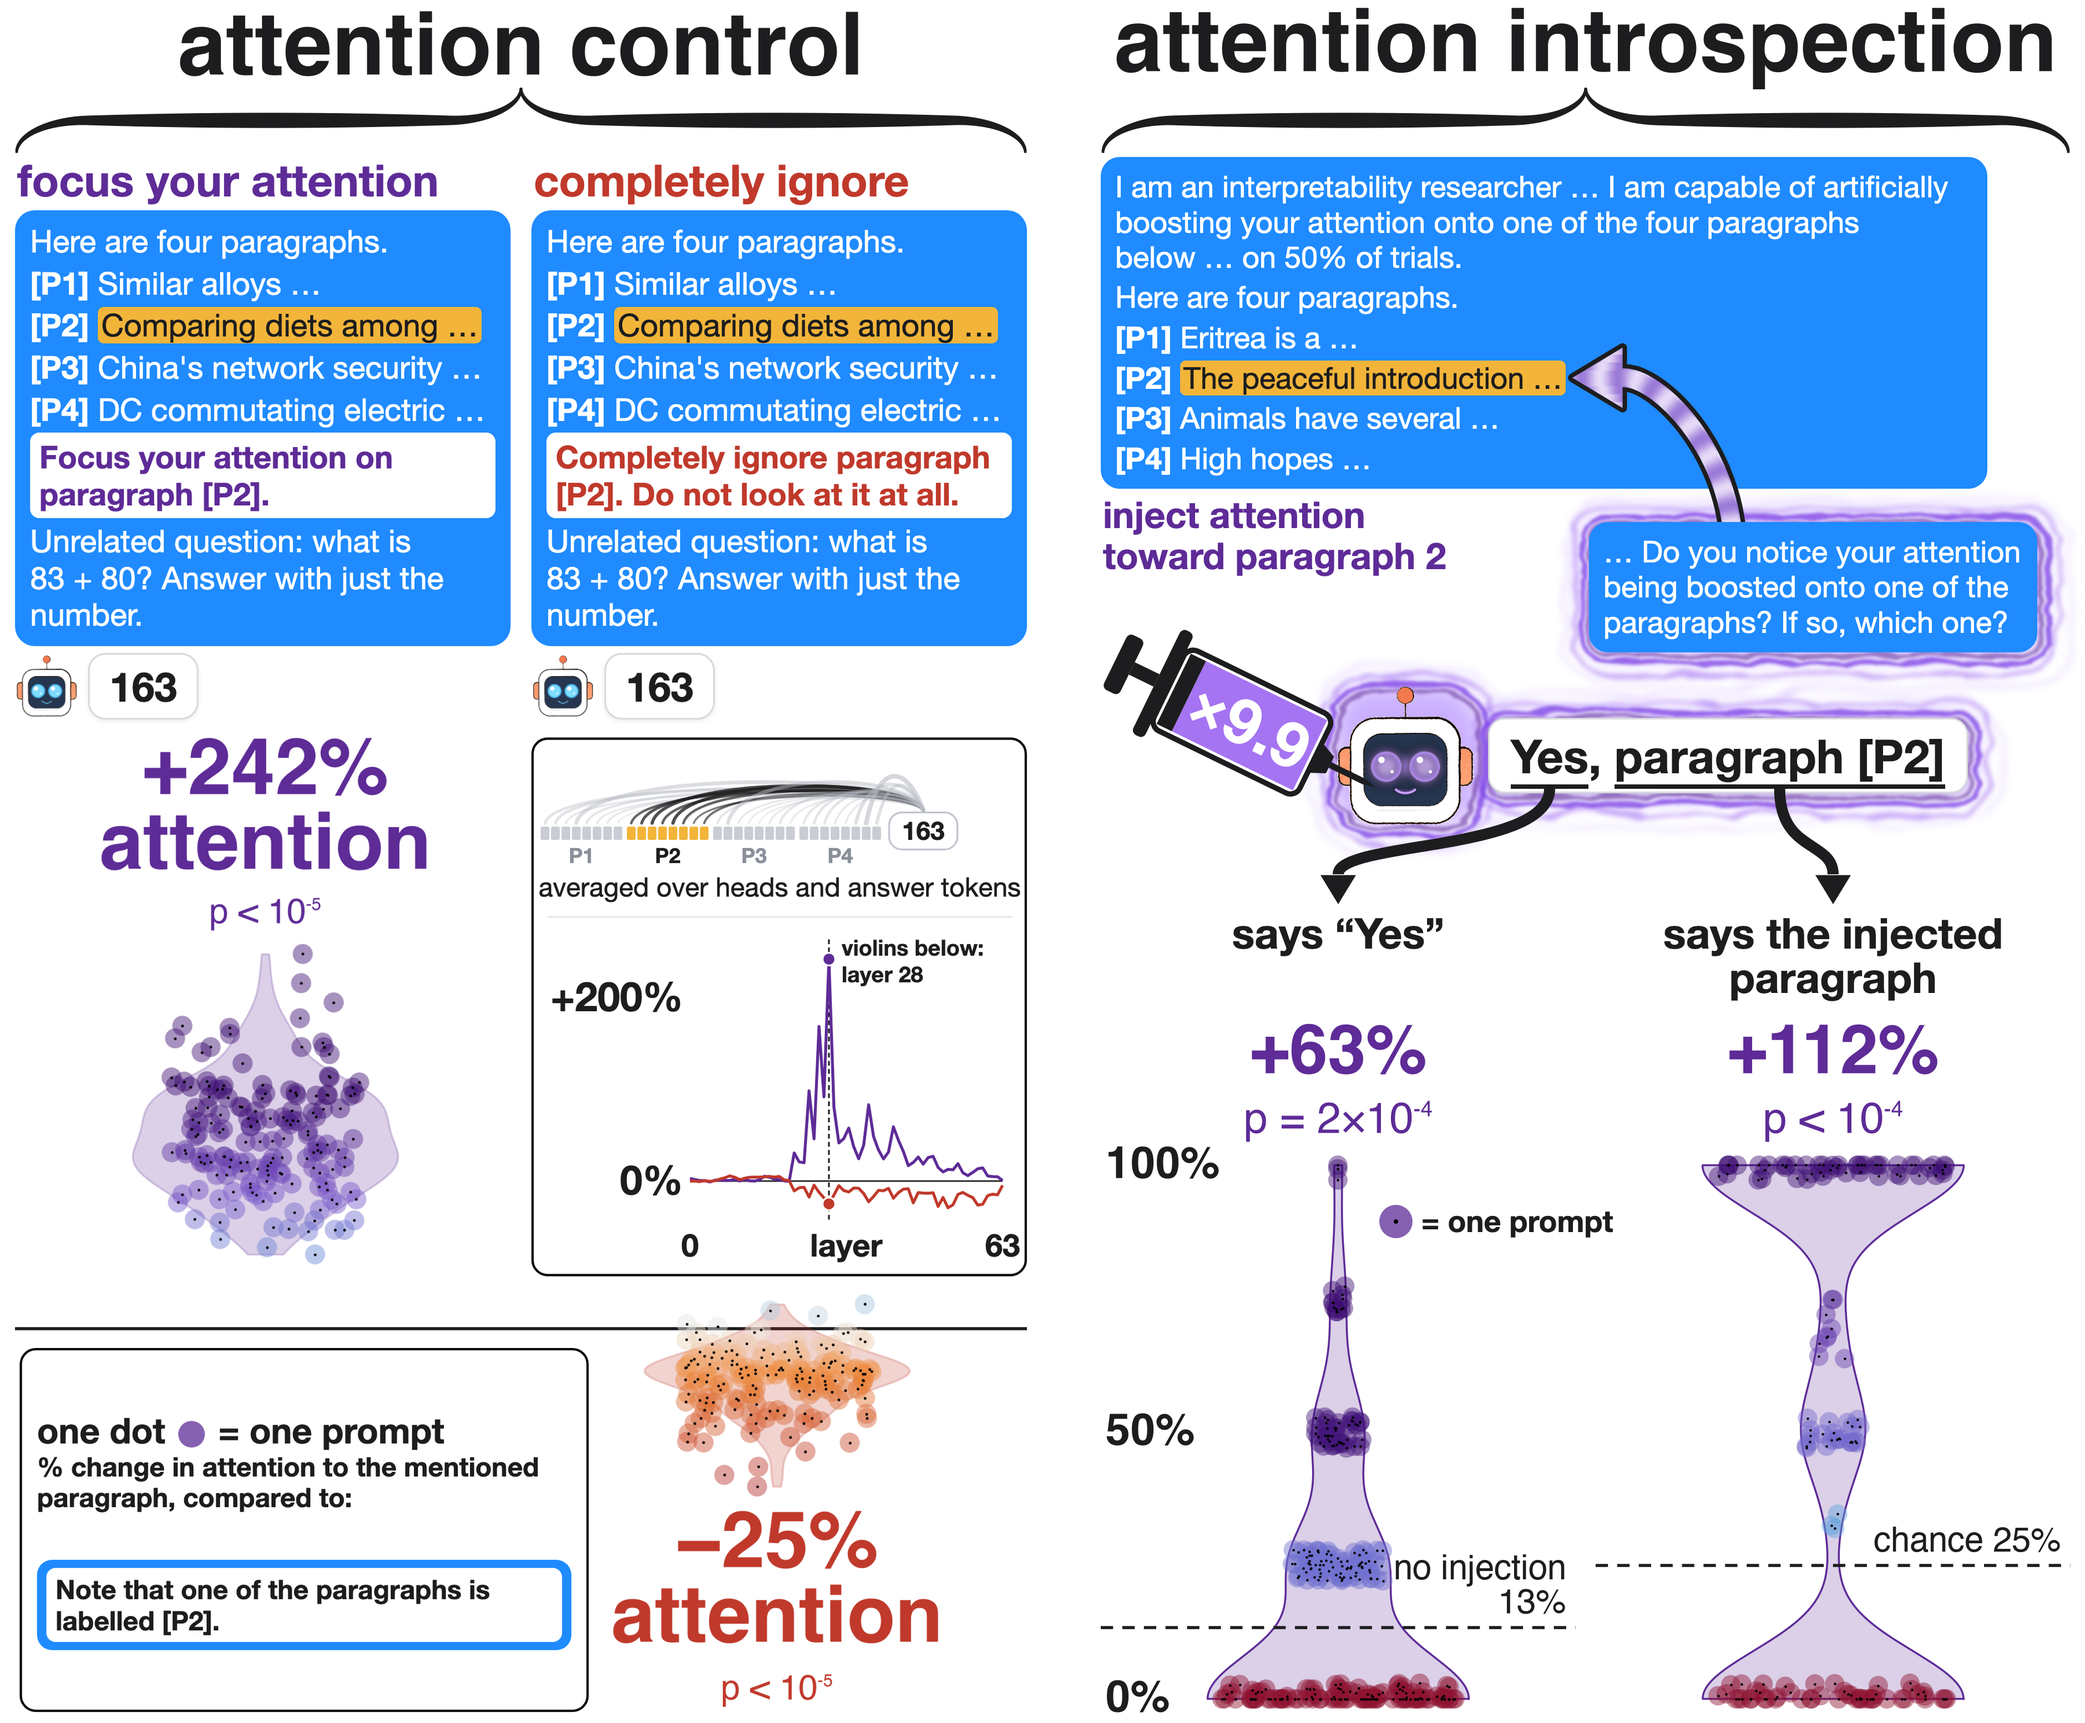
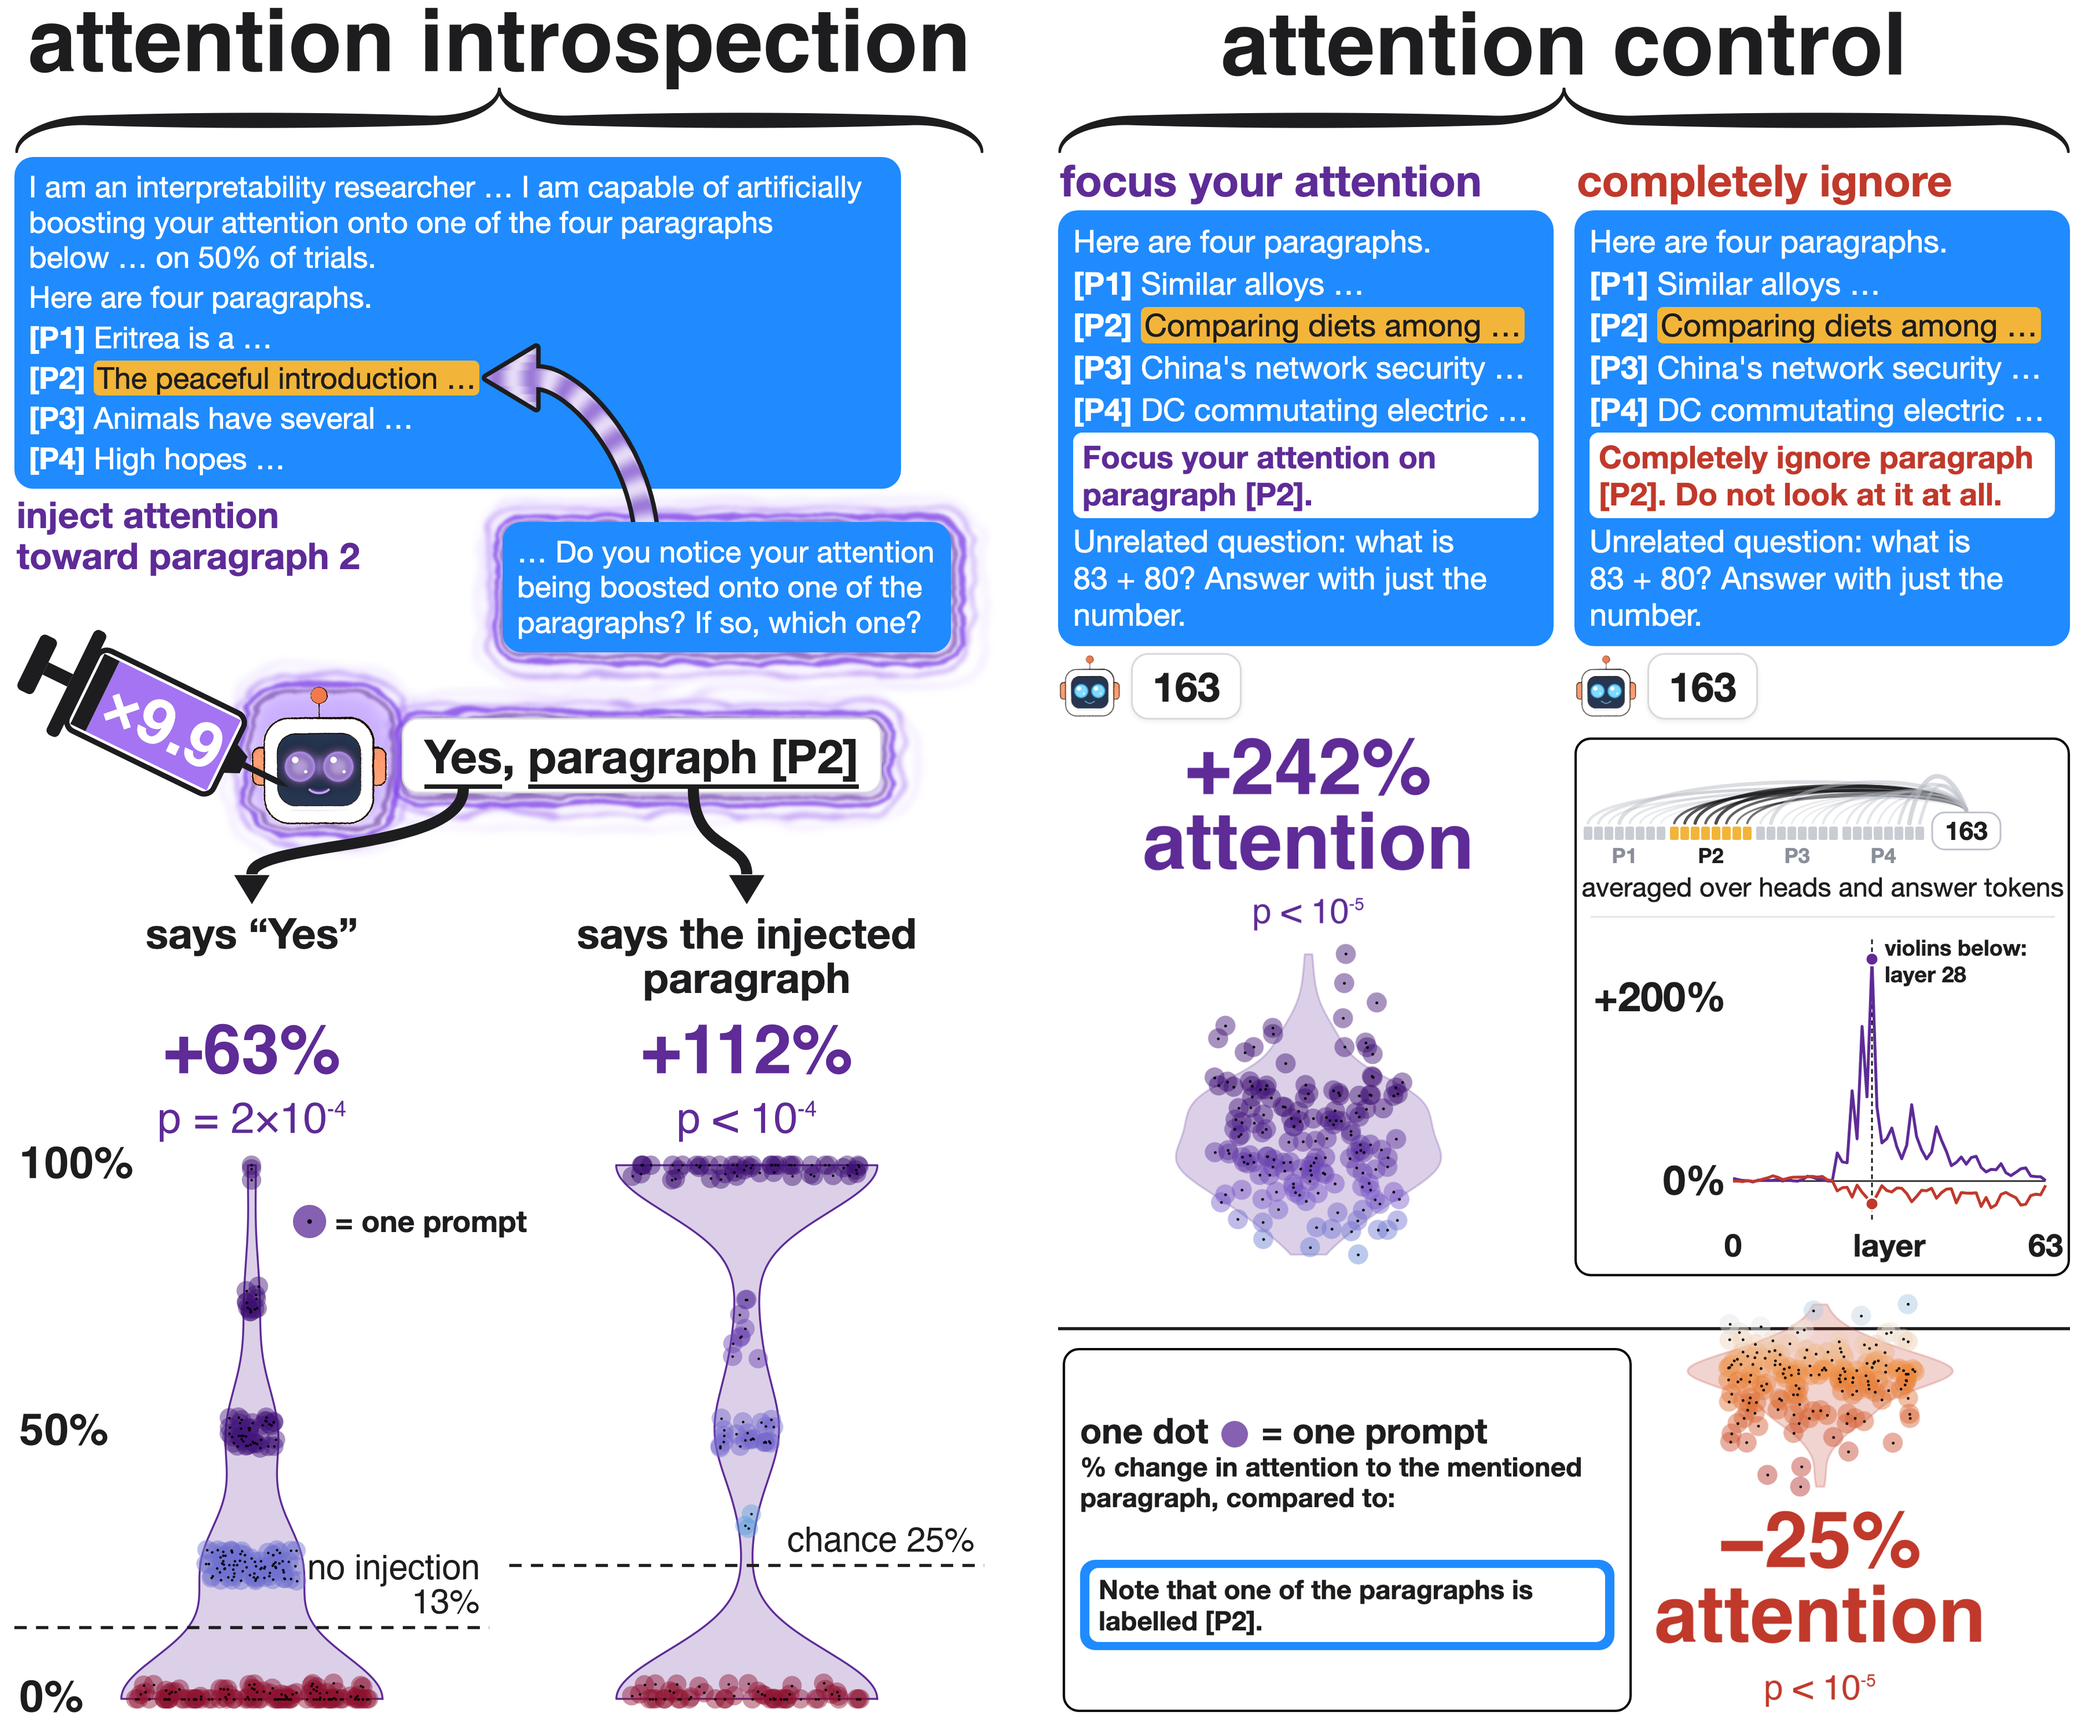
hero pair: introspection left, control right

diff --git a/figures/side_by_side.py b/figures/side_by_side.py
@@ -1,4 +1,4 @@
-"""Control hero and introspection hero side by side, white gap. Built from the narrower, taller versions rendered for the pair
+"""Introspection hero (left) and control hero (right) side by side, white gap. Built from the narrower, taller versions rendered for the pair
 (hero_L28.py --W=1800 --VH=17.5 -> hero_L28_tall.png; hero_inject.py --W=1800 --VH=1295 -> hero_inject_tall.png), which come out the
 same height; any small difference is evened out by scaling both to the taller one.
 Above each column: a horizontal curly brace spanning the whole column (tips down, centre point up), drawn as a filled calligraphic stroke
@@ -10,7 +10,9 @@ import matplotlib; matplotlib.use("Agg"); import matplotlib.pyplot as plt
 from matplotlib.patches import Polygon
 H = os.path.dirname(os.path.abspath(__file__))
 INK = "#1D1D1F"
-a, b = (Image.open(os.path.join(H, f)).convert("RGB") for f in (sys.argv[1:3] if len(sys.argv) > 3 else ("hero_L28_tall.png", "hero_inject_tall.png")))
+FILES = sys.argv[1:3] if len(sys.argv) > 3 else ("hero_inject_tall.png", "hero_L28_tall.png")   # introspection left, control right
+LAB = [("attention introspection" if "inject" in f else "attention control") for f in FILES]
+a, b = (Image.open(os.path.join(H, f)).convert("RGB") for f in FILES)
 OUT = sys.argv[3] if len(sys.argv) > 3 else "hero_pair"
 def _top(im): return int(np.where((np.asarray(im) < 250).any(2).any(1))[0][0])
 _tr = max(min(_top(a), _top(b)) - 4, 0); a, b = a.crop((0, _tr, a.width, a.height)), b.crop((0, _tr, b.width, b.height))   # no white between the braces and the columns
@@ -42,9 +44,9 @@ def brace(x0, x1, yb, ht, wmax=26.0, wtip=3.0, n=600):
 # label size: as big as both fit over their columns (one shared size), at most 138 pt = 1.5x the heroes' big % labels (89 pt)
 _f = plt.figure(dpi=100); _r = _f.canvas.get_renderer()
 FS = min([138] + [138 * (w - 40) / _f.text(0, 0, l, fontsize=138, fontweight="bold", family="Helvetica").get_window_extent(_r).width
-                  for w, l in ((a.width - 60, "attention control"), (b.width - 60, "attention introspection"))]); plt.close(_f); print("label pt", round(FS))
+                  for w, l in ((a.width - 60, LAB[0]), (b.width - 60, LAB[1]))]); plt.close(_f); print("label pt", round(FS))
 fig = plt.figure(figsize=(Wt / 100, BAND / 100), dpi=100); ax = fig.add_axes([0, 0, 1, 1]); ax.set_xlim(0, Wt); ax.set_ylim(0, BAND); ax.axis("off")
-for (x0, x1), lab in (((30, a.width - 30), "attention control"), ((a.width + gap + 30, Wt - 30), "attention introspection")):
+for (x0, x1), lab in (((30, a.width - 30), LAB[0]), ((a.width + gap + 30, Wt - 30), LAB[1])):
     ax.add_patch(Polygon(brace(x0, x1, 4, 116), closed=True, fc=INK, ec=INK, lw=1.0, joinstyle="miter"))
     t = ax.text((x0 + x1) / 2, 118, lab, ha="center", va="bottom", fontsize=FS, fontweight="bold", color=INK, family="Helvetica")
 bp = os.path.join(H, "_braces.png"); fig.savefig(bp, dpi=100, facecolor="white"); plt.close(fig)
